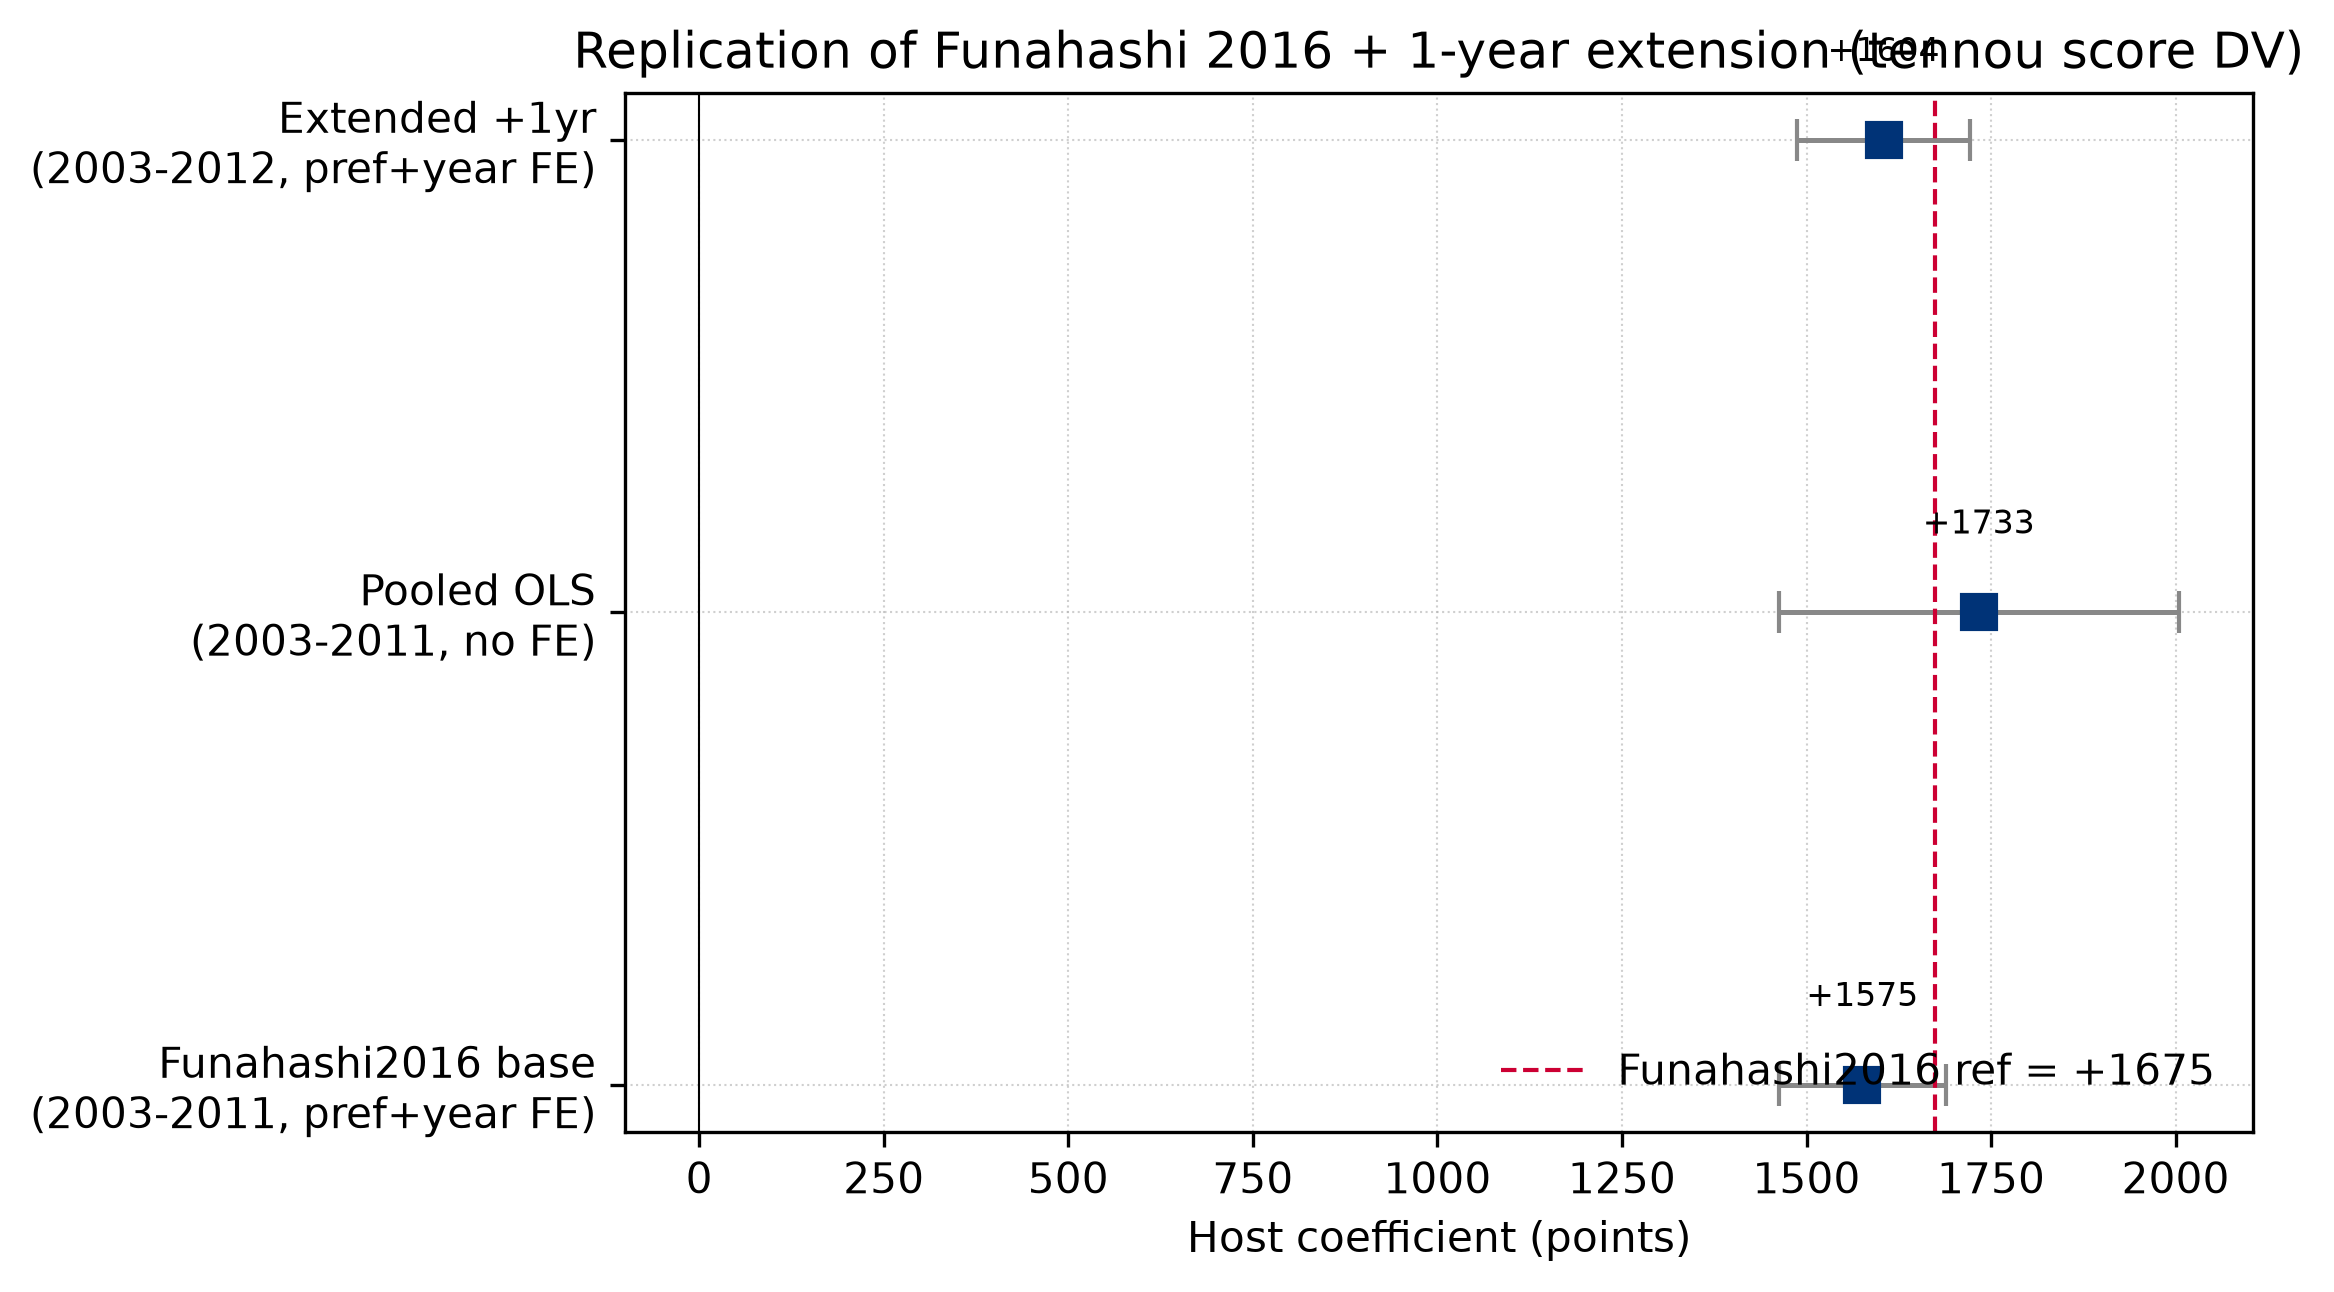
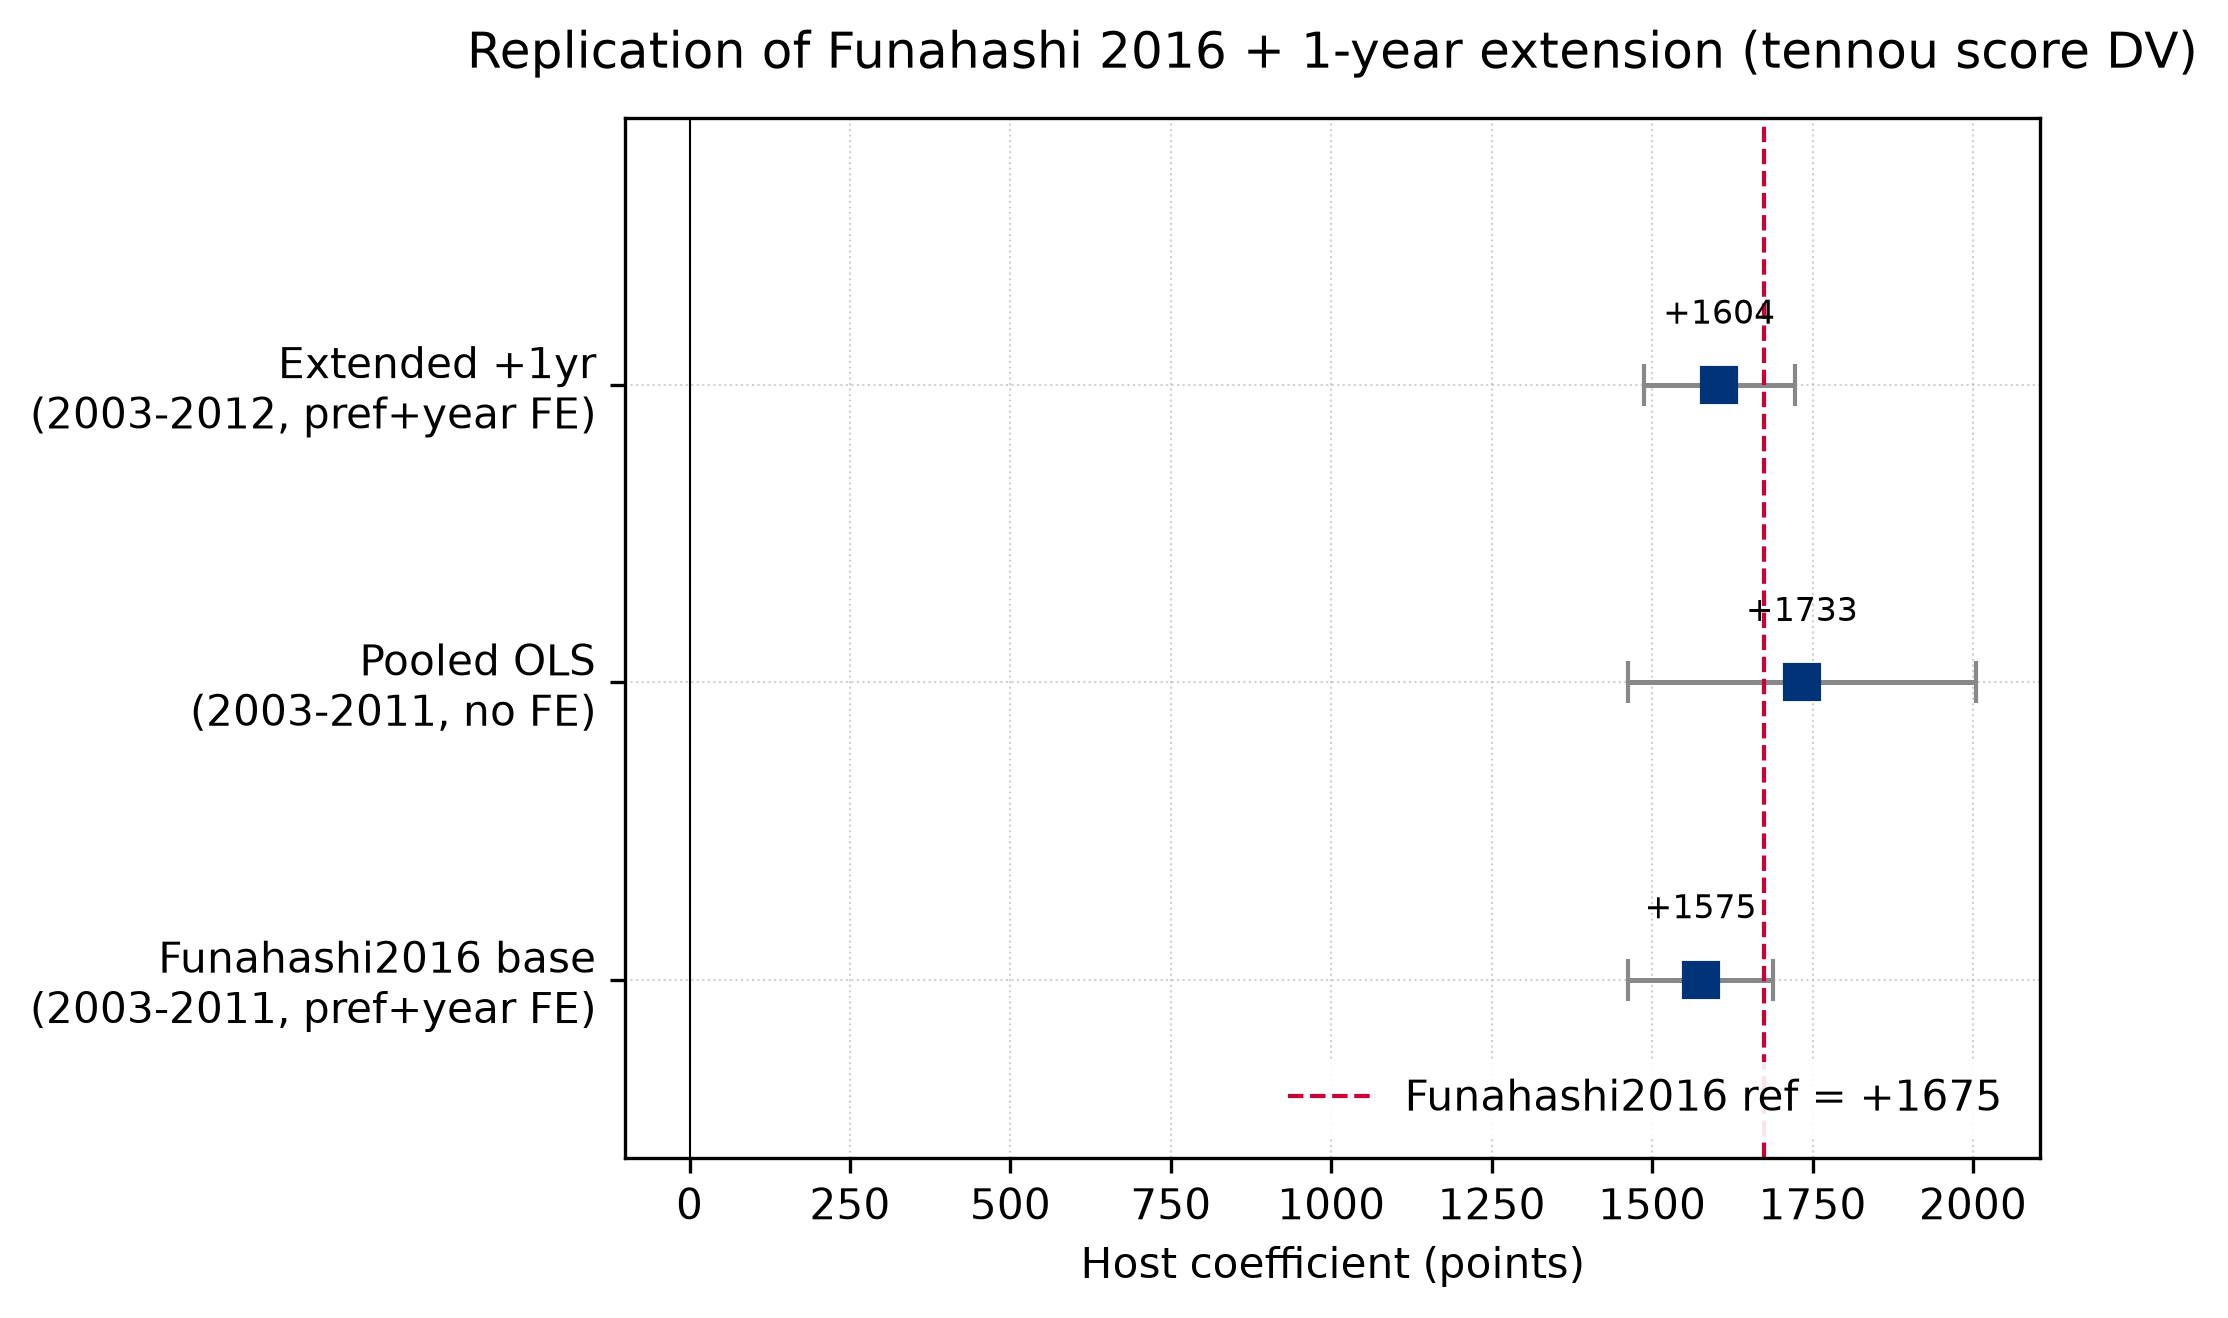
plots(fig5): P3 #3 fix Fig 5 label overlaps (legend + coef labels vs title/y-tick)
Three collisions previously observed in the rendered fig5:
- Top bar coef label "+1604" ran into the title text (visible as
  "+16041(tennou..." on the rasterized PNG)
- Bottom-right legend "Funahashi2016 ref = +1675" overlapped the
  extended_2003_2012 error bar and the multi-line y-tick label
- Insufficient vertical padding between the top errorbar and the
  title

Adjustments to plot_fig5_replication_extended (src/plots.py):
- ax.set_ylim(-0.6, len(names)-0.1)  # explicit padding for top text
- ax.set_title(..., pad=12)          # push title up from axes
- ax.text y-offset 0.15 -> 0.18       # more room between marker and label
- ax.legend(..., frameon=True, facecolor='white', framealpha=0.9,
            edgecolor='none')         # opaque backdrop so legend does
                                      # not blend with bars/ticks
- fig.tight_layout()                 # prevent _save clipping

pytest tests/test_plots.py: 9/9 pass. fig5 png regenerated at 137,992 B
(was 180,700 B pre-fix but on a stale layout).

diff --git a/src/plots.py b/src/plots.py
@@ -235,16 +235,19 @@ def plot_fig5_replication_extended(cup: str = "tennou") -> tuple[Path, Path]:
     ax.errorbar(coefs, ys, xerr=ci95, fmt="s", color="#003377", ecolor="#888888",
                 capsize=5, markersize=8, linewidth=1.2)
     for i, c in enumerate(coefs):
-        ax.text(c, ys[i] + 0.15, f"{c:+.0f}", ha="center", va="bottom", fontsize=8)
+        ax.text(c, ys[i] + 0.18, f"{c:+.0f}", ha="center", va="bottom", fontsize=8)
 
     ax.axvline(FUNAHASHI_2016_HOST_COEF, color="#cc0033", linewidth=1.0, linestyle="--",
                label=f"Funahashi2016 ref = {FUNAHASHI_2016_HOST_COEF:+.0f}")
     ax.axvline(0, color="black", linewidth=0.5)
     ax.set_yticks(ys)
     ax.set_yticklabels(disp)
+    ax.set_ylim(-0.6, len(names) - 0.1)
     ax.set_xlabel("Host coefficient (points)")
-    ax.set_title("Replication of Funahashi 2016 + 1-year extension (tennou score DV)")
-    ax.legend(loc="lower right", frameon=False)
+    ax.set_title("Replication of Funahashi 2016 + 1-year extension (tennou score DV)", pad=12)
+    ax.legend(loc="lower right", frameon=True, facecolor="white", framealpha=0.9,
+              edgecolor="none")
+    fig.tight_layout()
     return _save(fig, "fig5_replication_extended")
 
 
